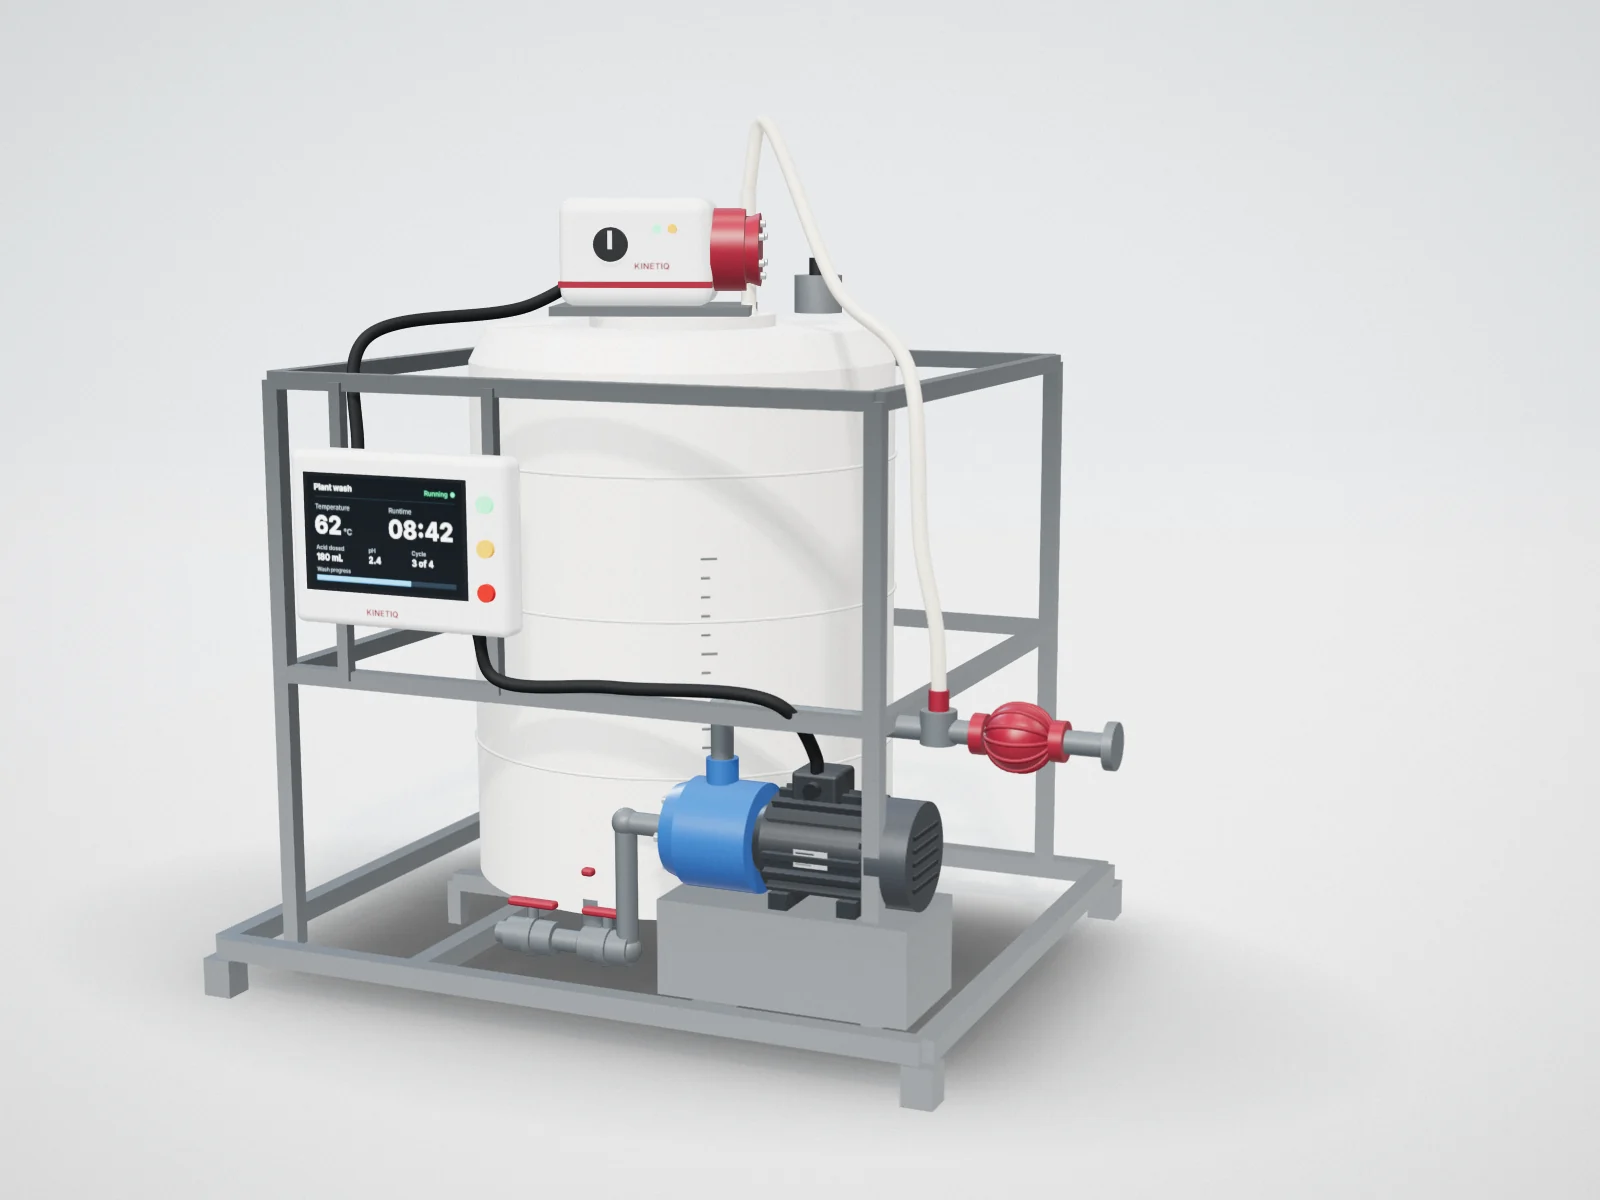
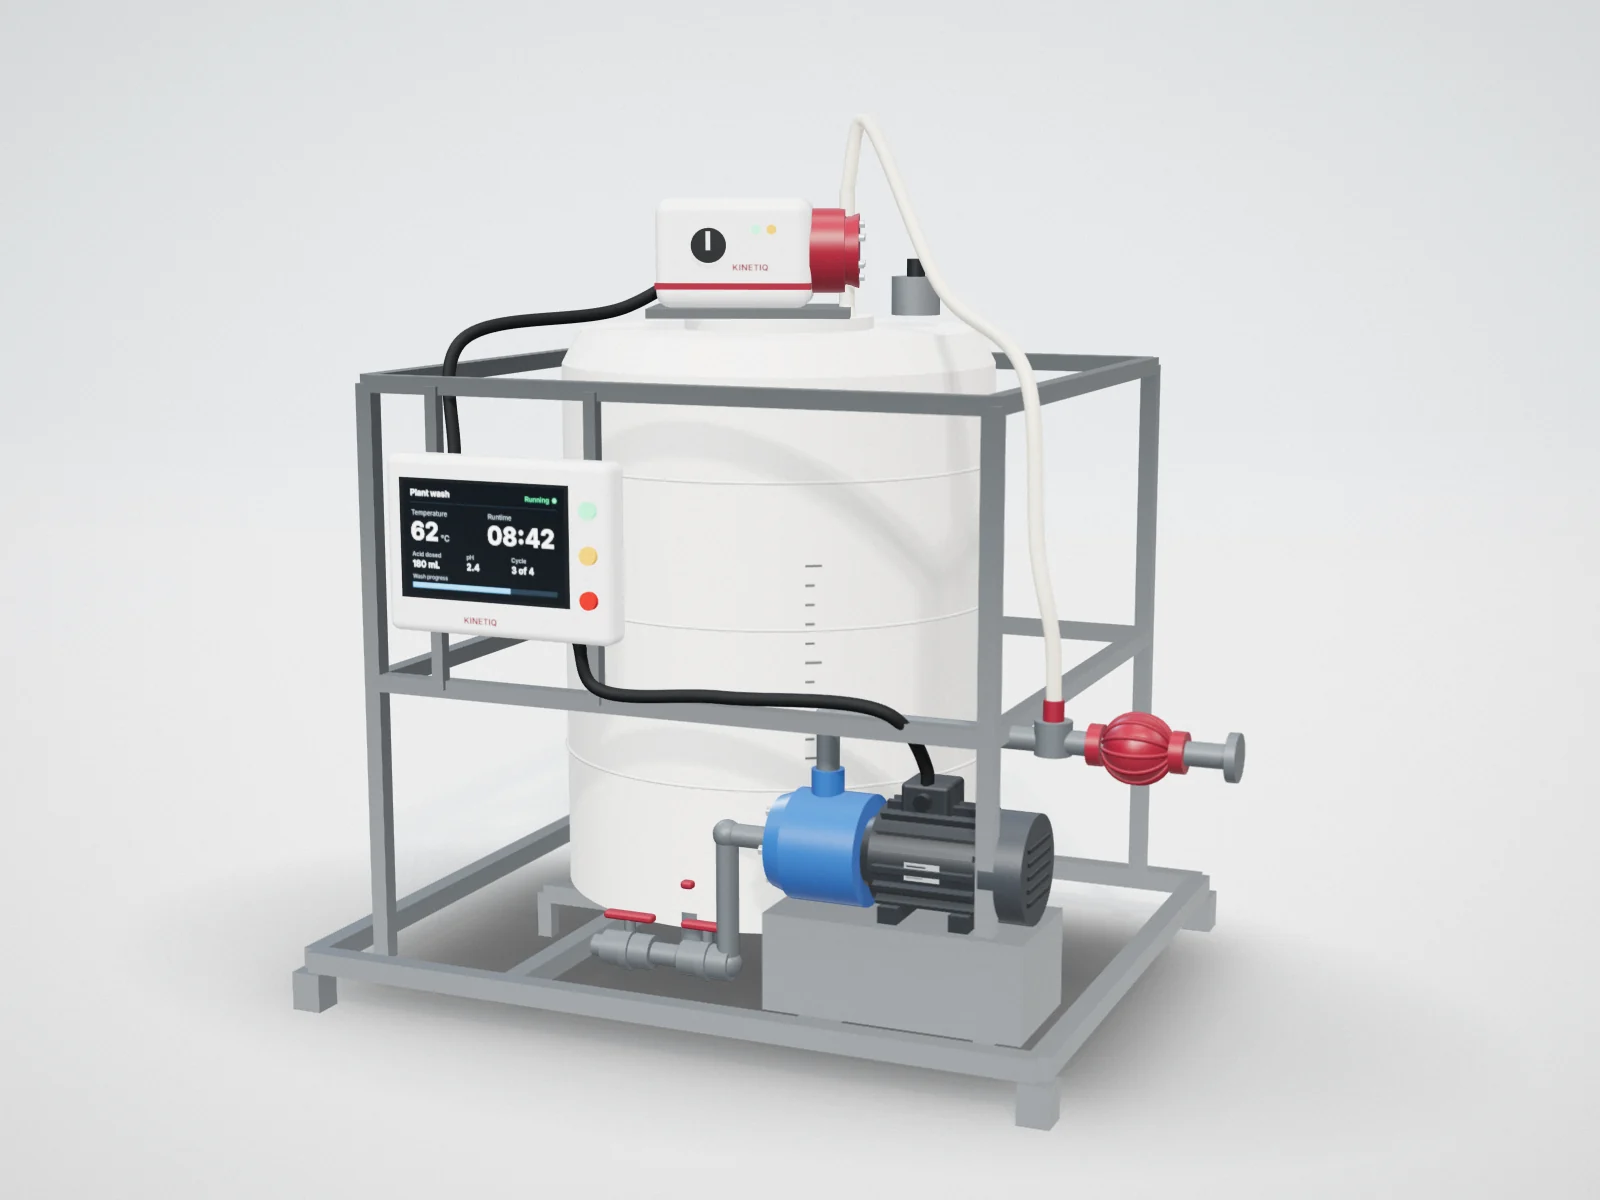
Centre the acid dosing render; new PLC render for PLC programming
- dosing2: camera recentred on the skid
- plc2: compact grey PLC with green terminal blocks, LCD, LEDs and keys,
  replacing the old PLC image on the homepage and Services page

Claude-Session: https://claude.ai/code/session_01VYdmJyyLHh3p2ArsBJsgFX

Changed region(s): [[0.125, 0.1542, 0.7812, 0.9558]]

diff --git a/tools/renders/scenes/plc2.js b/tools/renders/scenes/plc2.js
@@ -1,0 +1,73 @@
+// Compact PLC (owner's reference: a light grey brick PLC seen from above at an
+// angle): vented grey housing with DIN mounting ears, two rows of green
+// pluggable terminal blocks across the top, a stepped front panel with a small
+// LCD, status LEDs and keys, and a lower terminal row. Studio style matches the
+// other product shots.
+import { studio, THREE, mat, add, canvasTex, rectShadow } from '../studio.js';
+import { RoundedBoxGeometry } from 'three/addons/geometries/RoundedBoxGeometry.js';
+
+export default function () {
+  const q = new URLSearchParams(location.search);
+  const S = studio({ w: +(q.get('w') || 1600), h: +(q.get('h') || 1200), bg: '#e7eaec', floor: '#e4e7e9', fogNear: 20, fogFar: 40,
+    cam: [-4.6, 4.6, 6.4], target: [0.1, 0.95, 0.15], fov: 30, aperture: 0.02, softness: 1.4,
+    key: [-2, 11, 6], keyIntensity: 2.3, envIntensity: 0.8, fillIntensity: 0.42, samples: +(q.get('n') || 56) });
+
+  const shell = mat.plastic('#dfe3e6', 0.45), panel = mat.plastic('#cdd2d6', 0.42), dark = mat.plastic('#3b4248', 0.45);
+  const green = mat.plastic('#2f4a3c', 0.5), slot = mat.plastic('#1a1f1c', 0.6), brass = mat.metal('#c9a64e', 0.3);
+  const g = new THREE.Group(); g.rotation.y = 0.12; S.scene.add(g);
+  const W = 3.2, D = 1.9, H = 2.0;            // housing: width (x), depth (z), height (y)
+
+  // main housing and the stepped front module
+  add(g, new RoundedBoxGeometry(W, H, D, 6, 0.1), shell, [0, H / 2, -0.15]);
+  add(g, new RoundedBoxGeometry(W - 0.05, H * 0.62, 0.55, 6, 0.08), panel, [0, H * 0.31, D / 2 - 0.05]);
+  // mounting ears on the back plate, left and right
+  for (const x of [-W / 2 - 0.18, W / 2 + 0.18]) for (const y of [0.35, H - 0.35]) {
+    add(g, new RoundedBoxGeometry(0.42, 0.42, 0.08, 4, 0.06), shell, [x, y, -D / 2 - 0.08]);
+    add(g, new THREE.CylinderGeometry(0.08, 0.08, 0.1, 20), mat.plastic('#8b9399', 0.5), [x, y, -D / 2 - 0.07], [Math.PI / 2, 0, 0]);
+  }
+  add(g, new RoundedBoxGeometry(W + 0.5, H - 0.2, 0.08, 4, 0.05), shell, [0, H / 2, -D / 2 - 0.1]);
+  // side vents
+  for (const s of [-1, 1]) for (let k = 0; k < 7; k++) for (const zc of [-0.55, 0.1])
+    add(g, new THREE.BoxGeometry(0.02, 0.06, 0.42), dark, [s * (W / 2 + 0.005), 0.45 + k * 0.17, zc], [0, 0, 0], false);
+  // top vents on the rear half
+  for (let k = 0; k < 9; k++) add(g, new THREE.BoxGeometry(1.0, 0.02, 0.06), dark, [-0.85, H + 0.005, -0.85 + k * 0.1], [0, 0, 0], false);
+  for (let k = 0; k < 9; k++) add(g, new THREE.BoxGeometry(1.0, 0.02, 0.06), dark, [0.55, H + 0.005, -0.85 + k * 0.1], [0, 0, 0], false);
+
+  // two rows of green terminal blocks across the top front edge
+  const block = (x, y, z) => {
+    add(g, new RoundedBoxGeometry(0.34, 0.3, 0.36, 3, 0.03), green, [x, y, z]);
+    add(g, new THREE.BoxGeometry(0.16, 0.12, 0.02), slot, [x, y + 0.02, z + 0.185], [0, 0, 0], false);
+    add(g, new THREE.CylinderGeometry(0.055, 0.055, 0.03, 16), brass, [x, y + 0.16, z - 0.05]);
+    add(g, new THREE.BoxGeometry(0.09, 0.012, 0.02), slot, [x, y + 0.177, z - 0.05], [0, 0.7, 0], false);
+  };
+  for (let i = 0; i < 8; i++) { block(-1.2 + i * 0.34, H + 0.15, 0.32); block(-1.2 + i * 0.34, H * 0.62 + 0.15, 0.82); }
+  // lower terminal row along the bottom of the front module
+  for (let i = 0; i < 8; i++) add(g, new RoundedBoxGeometry(0.3, 0.16, 0.12, 2, 0.02), mat.plastic('#2a2f33', 0.5), [-1.2 + i * 0.34, 0.12, D / 2 + 0.24]);
+
+  // front panel: LCD, LEDs, keys, a hinged cover and a light-grey label strip
+  const fz = D / 2 + 0.23;
+  const lcd = canvasTex(512, 256, (c, w, h) => {
+    c.fillStyle = '#9fc4e6'; c.fillRect(0, 0, w, h);
+    c.fillStyle = '#1f3a56'; c.font = '700 44px Inter'; c.fillText('RUN', 26, 66); c.font = '600 34px Inter';
+    c.fillText('I0.0-0.7  10110010', 26, 128); c.fillText('Q0.0-0.5  010110', 26, 184); c.fillText('KINETIQ  PLC', 26, 236);
+  });
+  add(g, new THREE.PlaneGeometry(0.95, 0.46), new THREE.MeshPhysicalMaterial({ map: lcd, emissiveMap: lcd, emissive: '#ffffff', emissiveIntensity: 0.55, roughness: 0.1, clearcoat: 1 }), [0.6, 0.86, fz + 0.003], [0, 0, 0], false);
+  add(g, new THREE.PlaneGeometry(1.02, 0.53), mat.plastic('#3b4248', 0.3), [0.6, 0.86, fz + 0.001], [0, 0, 0], false);
+  // keys to the right of the display
+  for (let k = 0; k < 4; k++) add(g, new RoundedBoxGeometry(0.12, 0.1, 0.05, 2, 0.02), mat.plastic('#b9bfc4', 0.4), [1.33, 1.02 - k * 0.15, fz + 0.02]);
+  // status LEDs with labels
+  [['#e9d24a', 1.4], ['#9aa2a8', 0], ['#9aa2a8', 0]].forEach(([c, k], i) => {
+    add(g, new THREE.CylinderGeometry(0.045, 0.045, 0.03, 20), k ? mat.glow(c, k) : mat.plastic('#6d757b', 0.4), [-0.42, 0.98 - i * 0.16, fz + 0.015], [Math.PI / 2, 0, 0]);
+    add(g, new THREE.BoxGeometry(0.22, 0.03, 0.005), mat.plastic('#8f979d', 0.5), [-0.22, 0.98 - i * 0.16, fz + 0.003], [0, 0, 0], false);
+  });
+  // hinged cover over the port, with a split line
+  add(g, new RoundedBoxGeometry(0.62, 0.62, 0.05, 3, 0.03), mat.plastic('#c4c9cd', 0.45), [-1.05, 0.72, fz + 0.03]);
+  add(g, new THREE.BoxGeometry(0.62, 0.012, 0.01), mat.plastic('#9aa1a6', 0.5), [-1.05, 0.62, fz + 0.058], [0, 0, 0], false);
+  // small square indicators across the front edge (I/O status)
+  for (let i = 0; i < 12; i++) add(g, new THREE.BoxGeometry(0.06, 0.06, 0.012), i % 3 === 1 ? mat.glow('#3fbf7f', 1.2) : mat.plastic('#eef0f1', 0.4), [-1.3 + i * 0.235, H * 0.62 - 0.08, fz + 0.005]);
+  const brand = canvasTex(256, 64, (c) => { c.fillStyle = '#cdd2d6'; c.fillRect(0, 0, 256, 64); c.fillStyle = '#7a1f2b'; c.font = '800 40px Inter'; c.fillText('KINETIQ', 18, 46); });
+  add(g, new THREE.PlaneGeometry(0.5, 0.125), new THREE.MeshStandardMaterial({ map: brand }), [0.45, 0.42, fz + 0.002], [0, 0, 0], false);
+
+  rectShadow(g, W + 0.5, D + 0.7, 0.55, 0.22, [0, 0.004, 0.1]);
+  S.finish();
+}

diff --git a/index.html b/index.html
@@ -112,7 +112,7 @@
             <div class="service-body"><h3 data-e="36">Electronics &amp; PCB design</h3><p data-e="37">Sensor boards, controllers and long-range wireless telemetry, designed and tested in-house.</p></div>
           </a>
           <a class="service" href="services.html#plc">
-            <div class="service-media"><img src="assets/img/renders/plc.webp" alt="" width="1600" height="1000" loading="lazy" decoding="async"></div>
+            <div class="service-media"><img src="assets/img/renders/plc.webp" alt="" width="1600" height="1200" loading="lazy" decoding="async"></div>
             <div class="service-body"><h3 data-e="38">PLC programming</h3><p data-e="39">Programming, commissioning and fault-finding for PLC-controlled plant, new or existing.</p></div>
           </a>
           <a class="service textonly" href="services.html#automation">

diff --git a/tools/renders/scenes/dosing2.js b/tools/renders/scenes/dosing2.js
@@ -9,7 +9,7 @@ import { RoundedBoxGeometry } from 'three/addons/geometries/RoundedBoxGeometry.j
 export default function () {
   const q = new URLSearchParams(location.search);
   const S = studio({ w: +(q.get('w') || 1600), h: +(q.get('h') || 1200), bg: '#e7eaec', floor: '#e4e7e9', fogNear: 30, fogFar: 60,
-    cam: [6.8, 5.2, 14.0], target: [0.85, 2.55, 0], fov: 29, aperture: 0.03, softness: 1.4,
+    cam: [6.1, 5.2, 14.0], target: [0.15, 2.55, 0], fov: 29, aperture: 0.03, softness: 1.4,
     key: [5, 11, 8], keyIntensity: 2.3, envIntensity: 0.7, fillIntensity: 0.38, shadowSize: 7, samples: +(q.get('n') || 48) });
 
   const steel = mat.metal('#cdd3d7', 0.24);

diff --git a/tools/renders/README.md b/tools/renders/README.md
@@ -17,6 +17,7 @@ Then convert to WebP into `assets/img/renders/`. Edit a scene file to change mod
 | Scene | Output | What it shows |
 |---|---|---|
 | `tankset` (`?p=3`) | `tank-monitor.webp` | Homepage card: tank unit, coiled cable and probe, receiver and phone. Run `finish.py` on the PNG first |
+| `plc2` | `plc.webp` | Compact PLC (PLC programming service). Run `finish.py` on the PNG first |
 | `dosing2` | `dosing.webp` | Acid dosing skid concept. Run `finish.py` on the PNG first |
 | `pcbhero` | `pcb-hero.webp` | Homepage hero: blue circuit board to a glowing horizon. Also exports trace paths for the pulse animation (see below) |
 | `nzhero` | `tank-top.webp` | Monitor on the lid of a green poly tank, NZ farmland and ranges behind |
